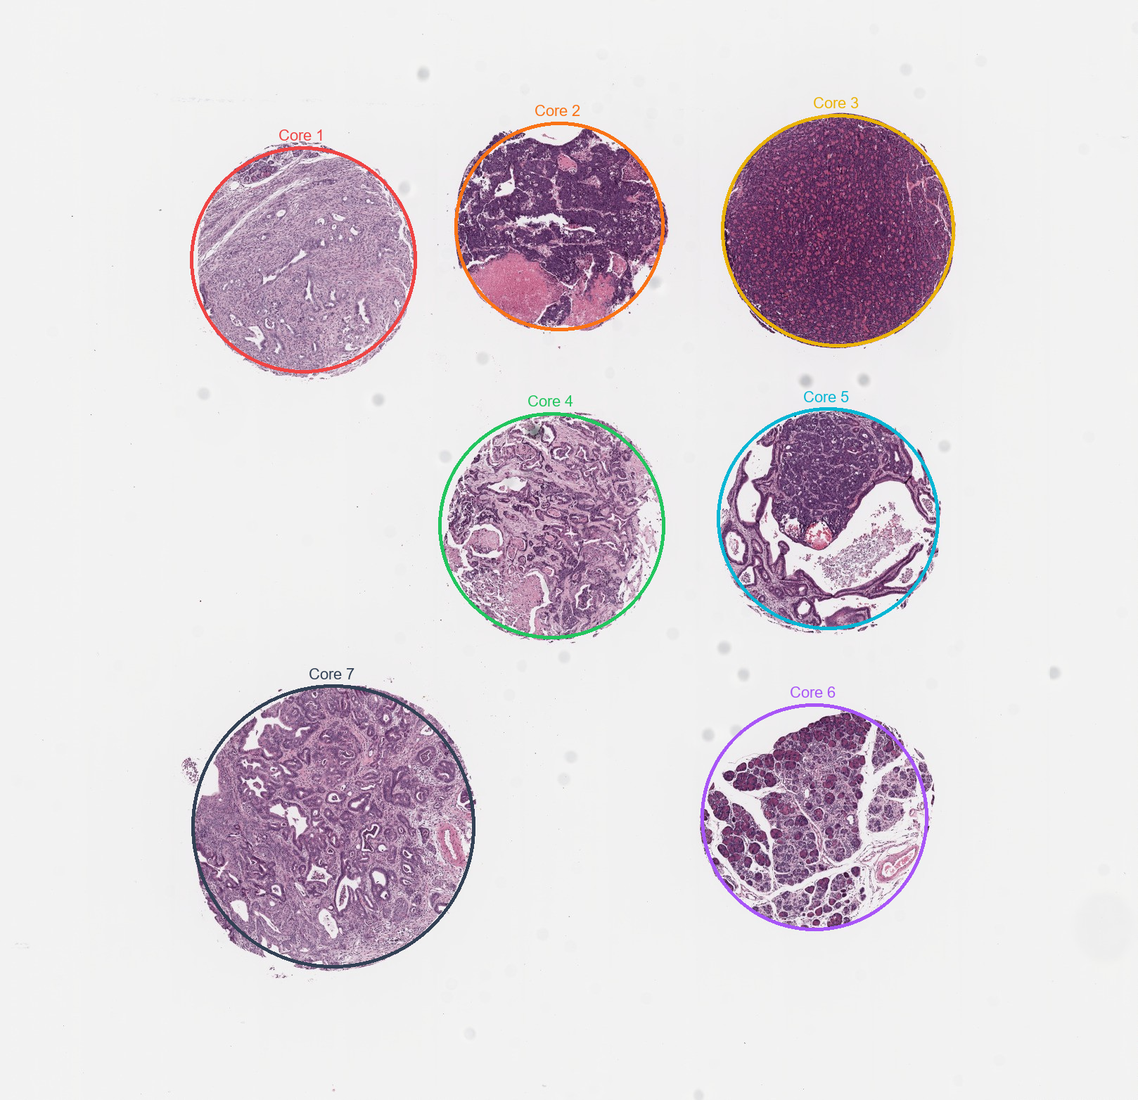
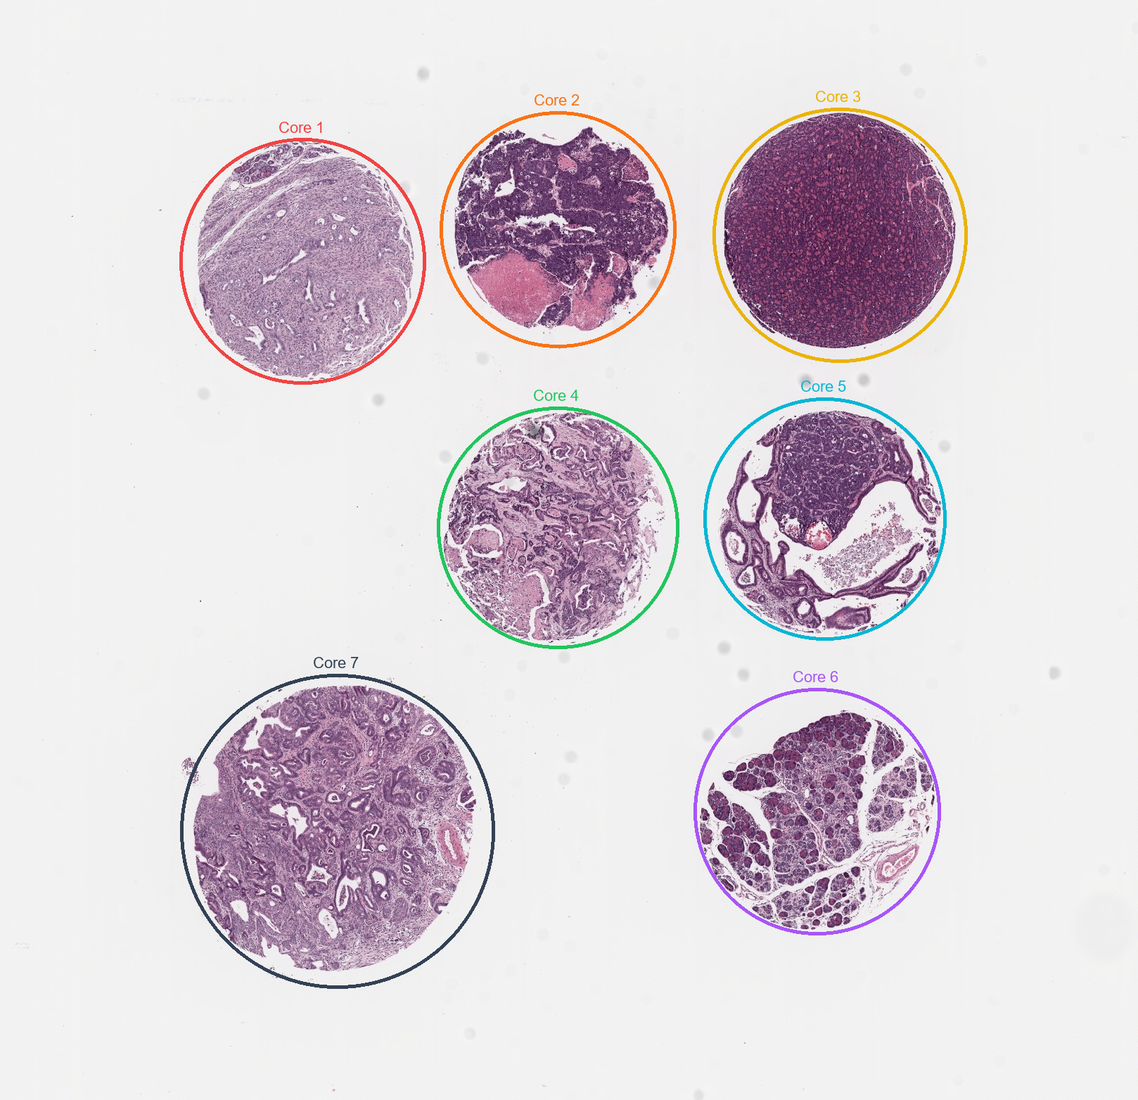
Refit cores from higher resolution mask

diff --git a/scripts/run_1path_analysis_pipeline.py b/scripts/run_1path_analysis_pipeline.py
@@ -45,7 +45,7 @@ INCLUSION_RADIUS_MULT = {
     # Core 7 has a small marginal tissue/cell area just outside the visually
     # best-fit core circle. Keep the displayed circle tight, but use this
     # slightly wider invisible boundary for assigning nuclei and patches.
-    7: 1.30,
+    7: 1.03,
 }
 
 
@@ -104,39 +104,48 @@ def write_slide_comparison():
 
 
 def detect_cores(slide):
-    thumb_img = slide.get_thumbnail((500, 500))
-    thumb = np.array(thumb_img.convert("RGB"))
+    # Use the real pyramid overview rather than a tiny generated thumbnail.
+    # The thumbnail-based fit was too conservative on lower-row cores and cut
+    # off legitimate boundary tissue. Level 2 retains enough edge detail for a
+    # stable outer circle fit while staying small enough for fast processing.
+    overview = slide.read_region((0, 0), 2, slide.level_dimensions[2]).convert("RGB")
+    thumb = np.array(overview)
     scale_x = slide.level_dimensions[0][0] / thumb.shape[1]
     scale_y = slide.level_dimensions[0][1] / thumb.shape[0]
     gray = np.mean(thumb, axis=2)
+    hsv = cv2.cvtColor(thumb, cv2.COLOR_RGB2HSV)
 
-    # This slide reliably yields 7 cores at 230; lower thresholds split pale tissue.
-    mask = gray < 230
+    mask = ((gray < 235) | ((hsv[:, :, 1] > 18) & (gray < 248))).astype("uint8")
+    mask = cv2.morphologyEx(mask, cv2.MORPH_CLOSE, np.ones((7, 7), np.uint8))
+    mask = cv2.morphologyEx(mask, cv2.MORPH_OPEN, np.ones((3, 3), np.uint8))
     labeled, n = ndimage.label(mask)
     sizes = ndimage.sum(mask, labeled, range(1, n + 1))
     components = []
     for idx, size in enumerate(sizes, start=1):
-        if size <= 1000:
+        if size <= 2500:
             continue
         core_mask = labeled == idx
-        rows = np.where(core_mask.any(axis=1))[0]
-        cols = np.where(core_mask.any(axis=0))[0]
-        darkness = (255 - gray) * core_mask
-        total = darkness.sum()
-        weighted_y = (darkness * np.arange(thumb.shape[0])[:, None]).sum() / total
-        weighted_x = (darkness * np.arange(thumb.shape[1])[None, :]).sum() / total
-        bbox_y = (rows[0] + rows[-1]) / 2
-        bbox_x = (cols[0] + cols[-1]) / 2
-        radius = ((rows[-1] - rows[0]) / 2 + (cols[-1] - cols[0]) / 2) / 2
+        ys, xs = np.where(core_mask)
+        pts = np.column_stack([xs.astype("float32"), ys.astype("float32")])
+        (circle_x, circle_y), radius = cv2.minEnclosingCircle(pts)
         components.append({
-            "x_thumb": float(0.7 * bbox_x + 0.3 * weighted_x),
-            "y_thumb": float(0.7 * bbox_y + 0.3 * weighted_y),
-            "radius_thumb": float(radius),
+            "x_thumb": float(circle_x),
+            "y_thumb": float(circle_y),
+            # A tiny pad compensates for anti-aliased pale tissue edges without
+            # making the visible circle look inflated.
+            "radius_thumb": float(radius * 1.015),
             "area": int(core_mask.sum()),
         })
 
     components = sorted(components, key=lambda item: item["area"], reverse=True)[:7]
-    components = sorted(components, key=lambda item: (round(item["y_thumb"] / 80), item["x_thumb"]))
+    components = sorted(components, key=lambda item: item["y_thumb"])
+    rows = [components[:3], components[3:5], components[5:]]
+    rows[0] = sorted(rows[0], key=lambda item: item["x_thumb"])
+    rows[1] = sorted(rows[1], key=lambda item: item["x_thumb"])
+    # Preserve the established viewer convention: lower-right is Core 6 and
+    # the large lower-left tissue core is Core 7.
+    rows[2] = sorted(rows[2], key=lambda item: item["x_thumb"], reverse=True)
+    components = rows[0] + rows[1] + rows[2]
     if len(components) != 7:
         raise RuntimeError(f"Expected 7 cores, detected {len(components)}")
 

diff --git a/README.md b/README.md
@@ -40,7 +40,7 @@ Processing steps:
 
 ## Results
 
-Final segmentation detected **80,623 nuclei** across seven cores.
+Final segmentation detected **81,849 nuclei** across seven cores.
 
 ![Core counts](docs/figures/core_counts_1path.png)
 
